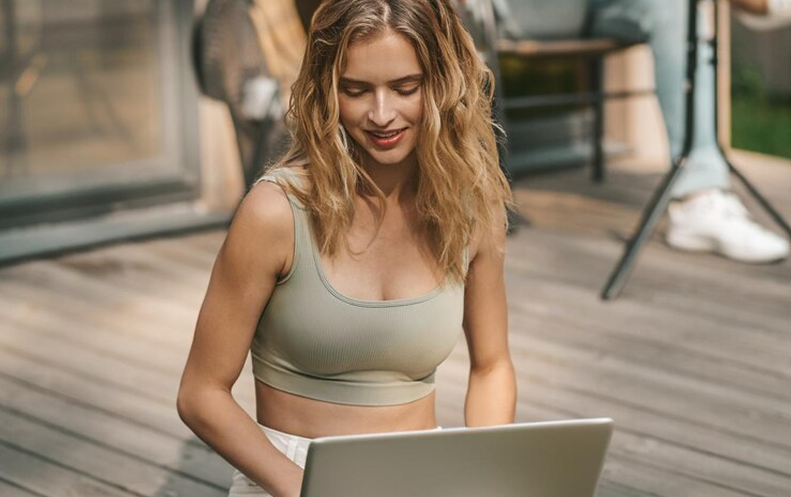
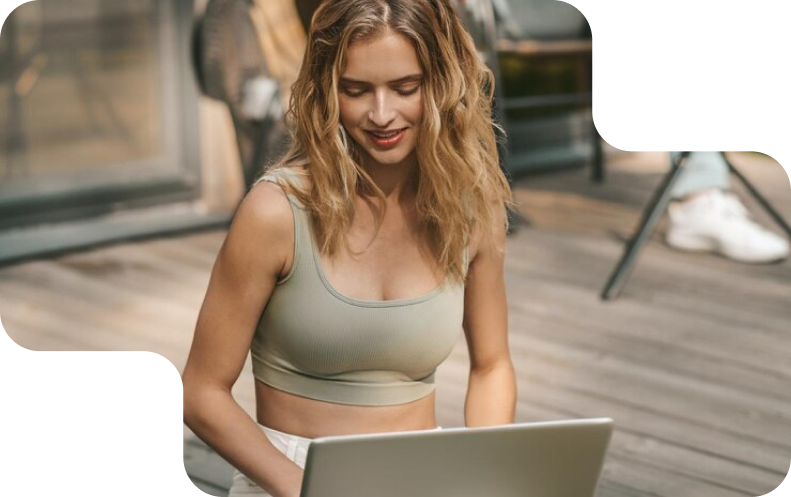
header fix

diff --git a/src/style/main.scss b/src/style/main.scss
@@ -10,6 +10,8 @@
   --white: #FFFFFF;
   --gray-light: #F2F2F2;
   --border-radius: 20px;
+  --dark-grey: #2D2D2D;
+  --gray-2: #C0C0C0;
 }
 
 * {
@@ -30,7 +32,7 @@ body {
 .container {
   max-width: 1920px;
   margin: 0 auto;
-  padding: 0 60px;
+  padding: 0 70px;
 
   @media (max-width: 1400px) {
     padding: 0 40px;
@@ -73,8 +75,13 @@ body {
 
 /* Header */
 .header {
-  background-color: #1A1A1A;
-  padding: 10px 0;
+  background: var(--gray-light);
+
+  &__block {
+    background-color: var(--dark-grey);
+    padding: 6px 0;
+    border-radius: 0 0 40px 40px;
+  }
 
   &__container {
     display: flex;
@@ -96,20 +103,20 @@ body {
   &__phone {
     color: var(--white);
     text-decoration: none;
-    font-size: 24px;
-    font-weight: 400;
-    line-height: 29px;
+    font-size: 32px;
+    line-height: 39px;
     transition: color 0.3s;
 
     &:hover {
-      color: var(--white);
+      color: var(--gray-2);
     }
   }
 }
 
 .logo {
   img {
-    height: 54px;
+    width: 251px;
+    height: 70px;
   }
 }
 
@@ -125,7 +132,7 @@ body {
     line-height: 29px;
 
     &:hover {
-      color: var(--white);
+      color: var(--gray-2);
     }
   }
 
@@ -140,15 +147,17 @@ body {
   justify-content: center;
   transition: transform 0.3s;
 
-  &:hover {
-    transform: translateY(-2px);
+  img {
+    width: 40px;
+    height: 40px;
   }
 }
 
 /* Hero */
 .hero {
-  padding: 100px 0 60px;
+  padding: 60px 0 0;
   position: relative;
+  background: var(--gray-light);
 
   &__container {
     display: flex;
@@ -171,14 +180,15 @@ body {
   }
 
   &__title {
-    font-size: 72px;
-    font-weight: 900;
-    line-height: 1.05;
+    font-size: 80px;
+    font-weight: 700;
+    line-height: 80px;
     margin-bottom: 35px;
-    letter-spacing: -2px;
+    color: var(--primary);
+
 
     span {
-      color: var(--primary);
+      color: var(--text-main);
     }
 
     @media (max-width: 1400px) {
@@ -211,18 +221,11 @@ body {
   }
 
   &__image {
-    flex: 1;
+    flex: 0 0 851px;
     position: relative;
+    padding-right: 60px;
 
-    &-wrapper {
-      position: relative;
-      z-index: 2;
-      clip-path: path('M100 0C44.7715 0 0 44.7715 0 100V400C0 455.228 44.7715 500 100 500H400C455.228 500 500 455.228 500 400V200C500 100 400 0 300 0H100Z');
-      border-radius: 60px 200px 60px 150px;
-      overflow: hidden;
-      background: #EEE;
-      aspect-ratio: 1/0.8;
-    }
+    &-wrapper {}
 
     img {
       width: 100%;
@@ -276,7 +279,7 @@ body {
     background: var(--white);
     border-color: #EEE;
     color: var(--text-main);
-    box-shadow: 0 4px 10px rgba(0,0,0,0.05);
+    box-shadow: 0 4px 10px rgba(0, 0, 0, 0.05);
   }
 }
 
@@ -397,7 +400,7 @@ body {
 
   &:hover {
     background: #FFF;
-    box-shadow: 0 30px 60px rgba(0,0,0,0.08);
+    box-shadow: 0 30px 60px rgba(0, 0, 0, 0.08);
     transform: translateY(-15px);
   }
 
@@ -406,7 +409,7 @@ body {
     color: var(--white);
 
     .price-card__desc {
-      color: rgba(255,255,255,0.6);
+      color: rgba(255, 255, 255, 0.6);
     }
 
     .badge {
@@ -471,4 +474,3 @@ body {
   margin-bottom: 40px;
   width: fit-content;
 }
-

diff --git a/index.html b/index.html
@@ -12,7 +12,8 @@
 </head>
 <body>
     <header class="header">
-        <div class="container header__container">
+        <div class="header__block">
+            <div class="container header__container">
             <a href="/" class="logo">
                 <img src="/images/LOGO.png" alt="LeadConveer Logo">
             </a>
@@ -25,10 +26,10 @@
             <div class="header__contacts">
                 <div class="header__socials">
                     <a href="#" class="social-icon">
-                        <img src="https://upload.wikimedia.org/wikipedia/commons/6/6b/WhatsApp.svg" alt="WA" width="24">
+                        <img src="/images/whatsapp_icon.png" alt="WA" width="24">
                     </a>
                     <a href="#" class="social-icon">
-                        <img src="https://upload.wikimedia.org/wikipedia/commons/8/82/Telegram_logo.svg" alt="TG" width="24">
+                        <img src="/images/telegram_icon.png" alt="TG" width="24">
                     </a>
                 </div>
                 <a href="tel:+74951183282" class="header__phone">+7 495 118-32-82</a>
